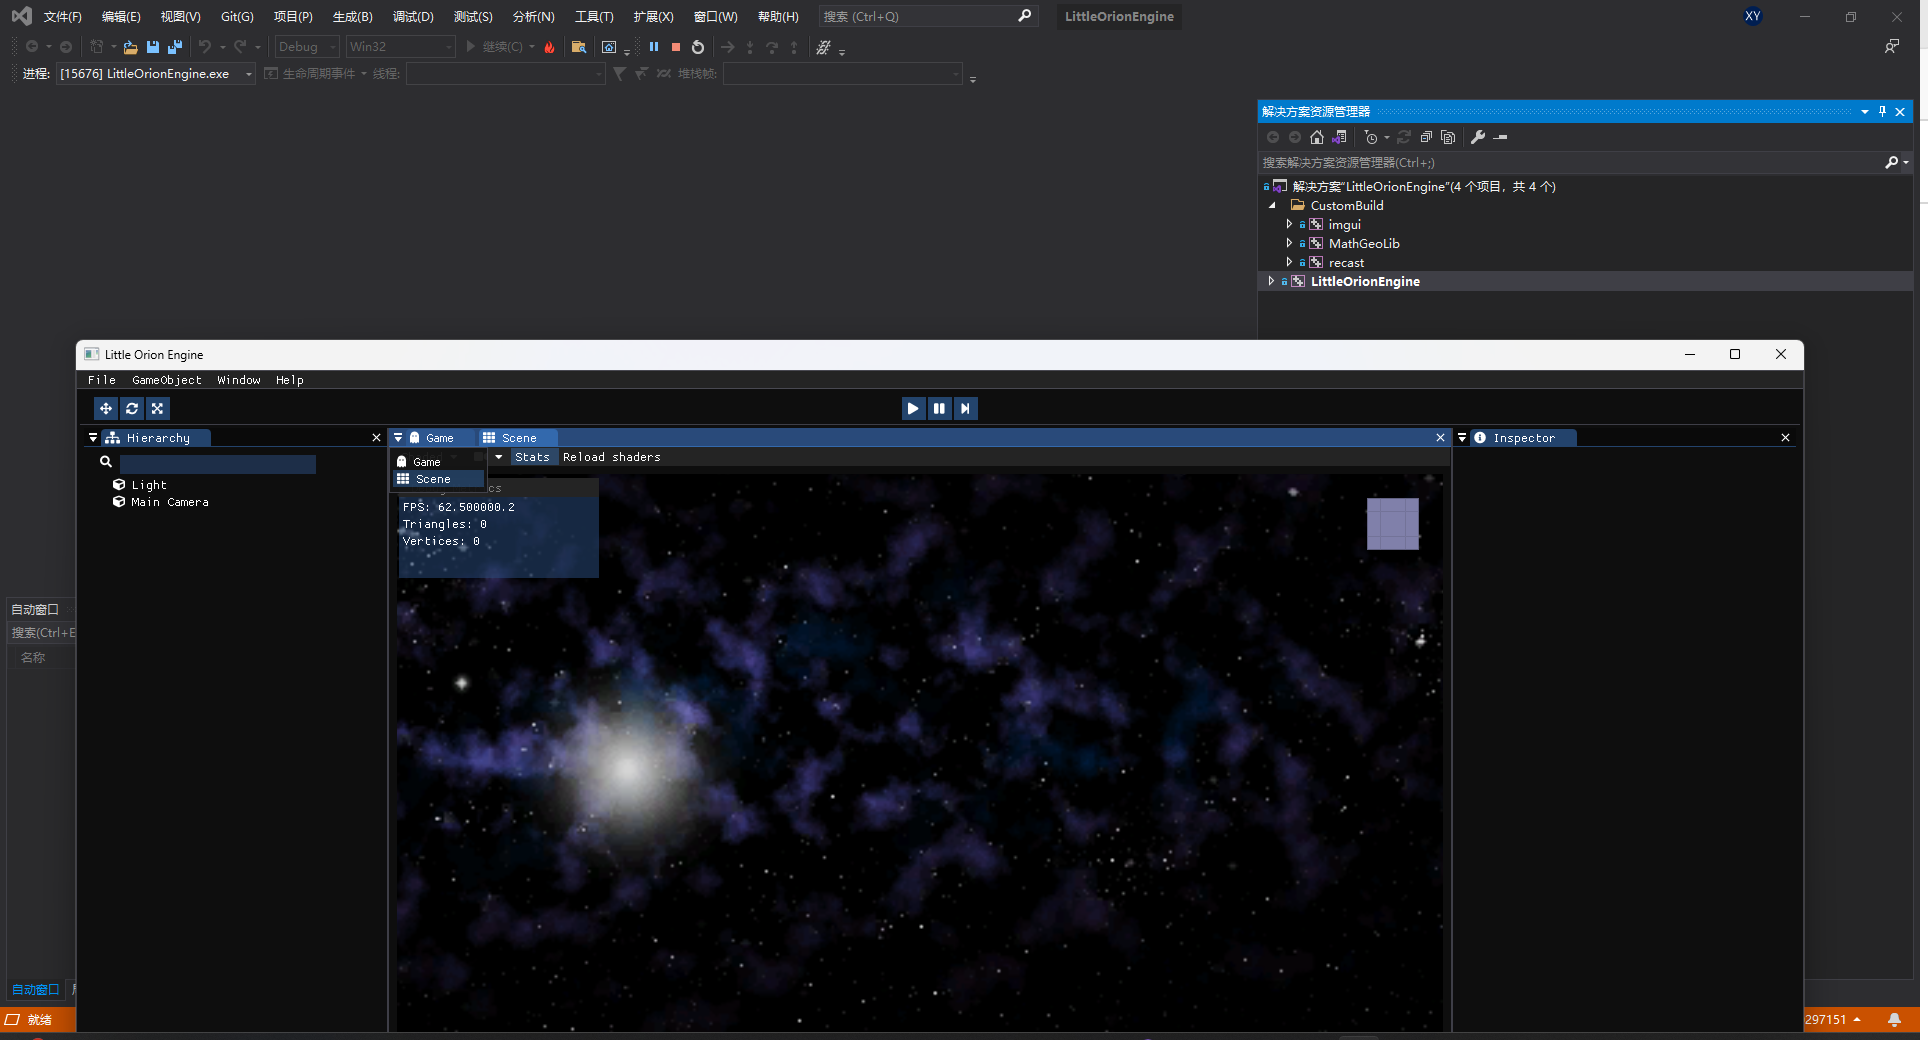
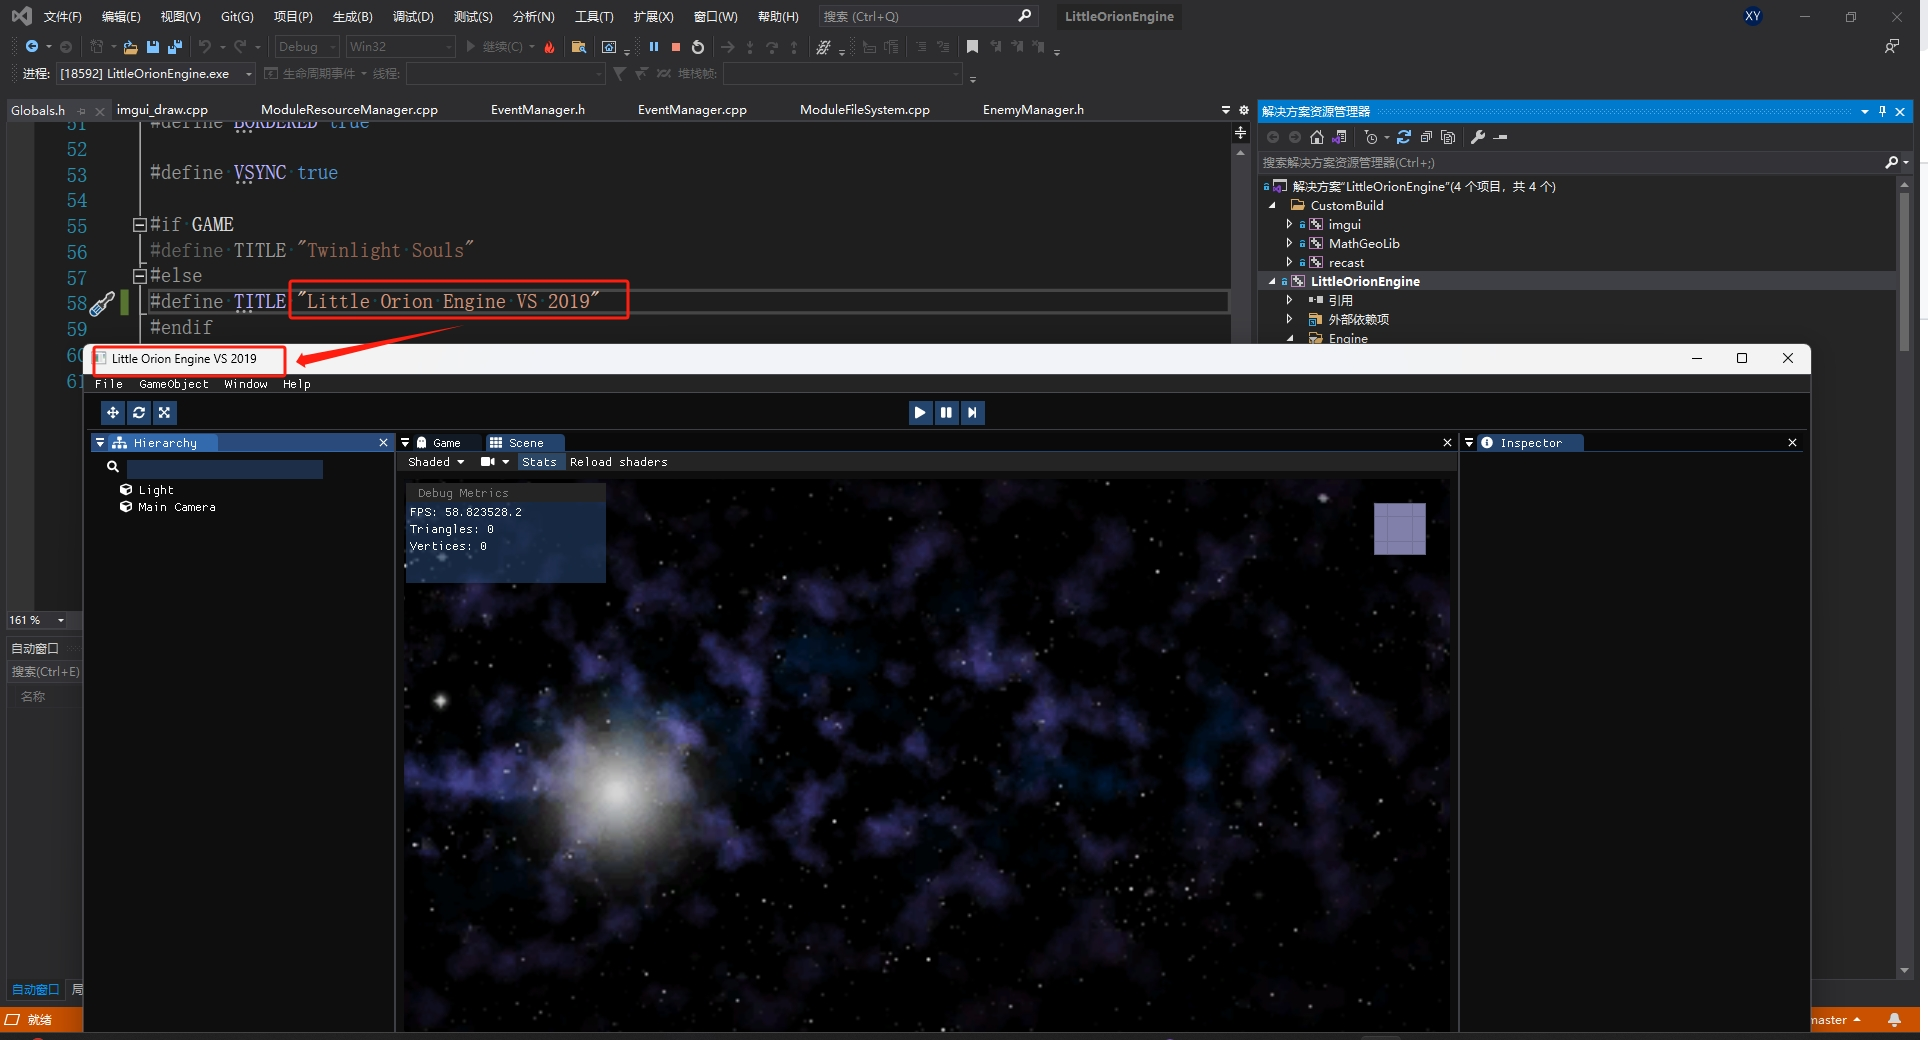
update build

diff --git a/Engine/Main/Globals.h b/Engine/Main/Globals.h
@@ -55,7 +55,7 @@ enum class Fonts
 #if GAME
 #define TITLE "Twinlight Souls"
 #else
-#define TITLE "Little Orion Engine"
+#define TITLE "Little Orion Engine VS 2019"
 #endif
 
 #endif //_GLOBALS_H_
